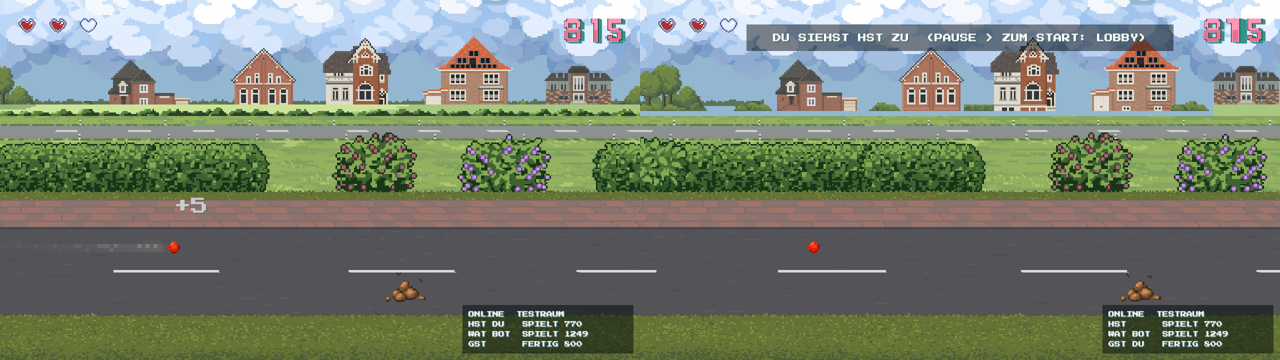
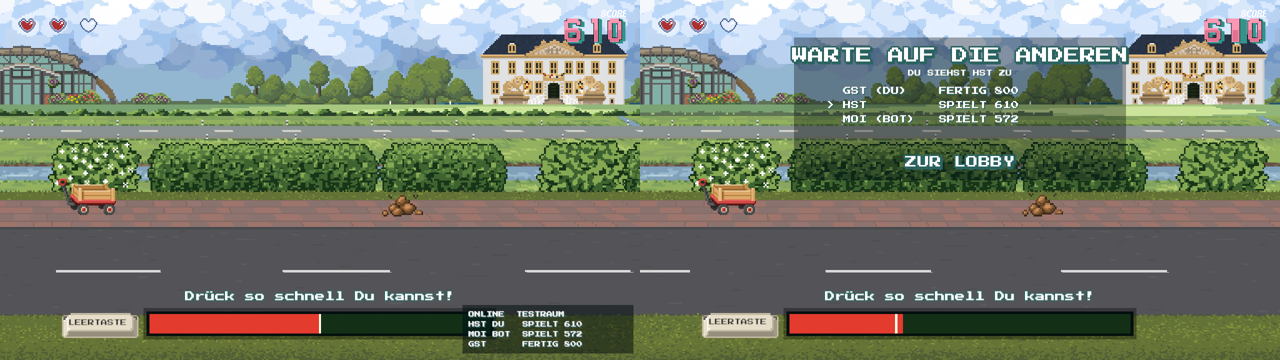
Lobby overlay while watching, SECURITY.md
- While watching, a lobby panel in the style of the pause menu lies over
  the upper half of the mirrored game: who is done with how many points,
  who still plays, whom you watch, and "Zur Lobby" (the game's submit
  input, armed only after 1.5 s and once held buttons were released).
- SECURITY.md: private reporting, scope, and the security model
  (no transport encryption, challenge-response passwords, limits).

Claude-Session: https://claude.ai/code/session_01TwT8QwETfUhfyACGaoyvve

diff --git a/src/OGMultiplayer.Plugin/OnlineHud.cs b/src/OGMultiplayer.Plugin/OnlineHud.cs
@@ -34,6 +34,15 @@ namespace OGMultiplayer.Plugin
         private Text toast;
         private Font font;
 
+        // lobby overlay while watching another player (see MirrorView)
+        private RectTransform watchOverlay;
+        private Text watchTitle;
+        private Text watchSubtitle;
+        private readonly List<Text> watchRows = new List<Text>();
+        private Text watchLeave;
+        private float watchShownAt = -1f;
+        private bool watchArmed;
+
         private static OnlineSession Session => OnlineSession.Instance;
 
         /// <summary>Own round paused and only the pause menu open (not its settings or how-to pages).</summary>
@@ -62,6 +71,93 @@ namespace OGMultiplayer.Plugin
             banner = MakeText(go.transform, "Banner", 18, new Vector2(0f, 300f), new Vector2(880f, 56f));
             toastBackdrop = Backdrop(go.transform, new Vector2(0f, 236f), new Vector2(980f, 48f));
             toast = MakeText(go.transform, "Toast", 14, new Vector2(0f, 236f), new Vector2(960f, 48f));
+            BuildWatchOverlay(go.transform);
+        }
+
+        /// <summary>
+        /// Lobby panel in the style of the pause menu, over the upper half of the watched game:
+        /// who is done with how many points, who still plays, and the way back to the lobby.
+        /// </summary>
+        private void BuildWatchOverlay(Transform parent)
+        {
+            watchOverlay = new GameObject("WatchOverlay", typeof(RectTransform)).GetComponent<RectTransform>();
+            watchOverlay.SetParent(parent, false);
+            watchOverlay.anchoredPosition = new Vector2(0f, 150f);
+            watchOverlay.sizeDelta = new Vector2(700f, 300f);
+            Image backdrop = Backdrop(watchOverlay, Vector2.zero, Vector2.zero);
+            backdrop.color = new Color(PauseMenuTheme.BackdropColor.r, PauseMenuTheme.BackdropColor.g, PauseMenuTheme.BackdropColor.b, 0.6f);
+            backdrop.rectTransform.anchorMin = Vector2.zero;
+            backdrop.rectTransform.anchorMax = Vector2.one;
+            backdrop.rectTransform.offsetMin = Vector2.zero;
+            backdrop.rectTransform.offsetMax = Vector2.zero;
+            watchTitle = PauseMenuTheme.CreateText(watchOverlay, "Title", font, 30, new Vector2(0f, 112f), new Vector2(680f, 48f));
+            watchSubtitle = MakeText(watchOverlay, "Subtitle", 14, new Vector2(0f, 76f), new Vector2(680f, 24f));
+            for (int i = 0; i < Protocol.MaxPlayers; i++)
+            {
+                Text row = MakeText(watchOverlay, "Player" + i, 17, new Vector2(0f, 38f - 30f * i), new Vector2(560f, 28f));
+                row.alignment = TextAnchor.MiddleLeft;
+                watchRows.Add(row);
+            }
+            watchLeave = PauseMenuTheme.CreateText(watchOverlay, "Leave", font, 22, new Vector2(0f, -112f), new Vector2(500f, 44f));
+            PauseMenuTheme.AddSelectionEffect(watchLeave);
+            PauseMenuTheme.ApplySelection(watchLeave, true);
+            watchOverlay.gameObject.SetActive(false);
+        }
+
+        private bool UpdateWatchOverlay()
+        {
+            MirrorView view = MirrorView.Instance;
+            bool show = Session.WaitingForResults && view != null && view.Showing && view.Watching != 0
+                && !PauseManager.IsAnyPaused && !OnlineMenu.Visible;
+            watchOverlay.gameObject.SetActive(show);
+            if (!show)
+            {
+                watchShownAt = -1f;
+                return false;
+            }
+            if (watchShownAt < 0f)
+            {
+                watchShownAt = Time.unscaledTime;
+                watchArmed = false;
+            }
+            LobbyPlayer watched = Session.Lobby.FirstOrDefault(p => p.Id == view.Watching);
+            PauseMenuTheme.SetLabel(watchTitle, "WARTE AUF DIE ANDEREN");
+            SetIfChanged(watchSubtitle, $"DU SIEHST {watched?.Initials ?? "?"} ZU");
+            List<LobbyPlayer> players = Session.Lobby
+                .OrderByDescending(p => p.Status == Protocol.StatusDone ? 1 : 0).ThenByDescending(p => p.Score).ToList();
+            for (int i = 0; i < watchRows.Count; i++)
+            {
+                bool used = i < players.Count;
+                watchRows[i].gameObject.SetActive(used);
+                if (used)
+                {
+                    LobbyPlayer p = players[i];
+                    string who = p.Initials + (p.Id == Session.MyId ? " (DU)" : p.IsBot ? " (BOT)" : string.Empty);
+                    SetIfChanged(watchRows[i], (p.Id == view.Watching ? "> " : "  ") + who.PadRight(10) + "  " + StatusText(p));
+                }
+            }
+            PauseMenuTheme.SetLabel(watchLeave, "ZUR LOBBY");
+            // only the game's own submit input; buttons still held from the round do not count
+            bool held = Input.GetButton("Submit") || ArcadeInput.JumpHeld() || Input.GetKey(KeyCode.KeypadEnter);
+            if (!watchArmed)
+            {
+                watchArmed = !held && Time.unscaledTime - watchShownAt > 1.5f;
+            }
+            else if (ArcadeInput.SubmitDown() || Input.GetKeyDown(KeyCode.KeypadEnter)
+                || (Input.GetMouseButtonDown(0) && RectTransformUtility.RectangleContainsScreenPoint(watchLeave.rectTransform, Input.mousePosition, null)))
+            {
+                watchArmed = false;
+                HotSeatFlowController.AbortToMenu();
+            }
+            return true;
+        }
+
+        private static void SetIfChanged(Text text, string value)
+        {
+            if (text.text != value)
+            {
+                text.text = value;
+            }
         }
 
         private Image Backdrop(Transform parent, Vector2 position, Vector2 size)
@@ -110,7 +206,8 @@ namespace OGMultiplayer.Plugin
             // the game's own results/setup pages already list everyone
             HotSeatFlowController hotSeat = HotSeatFlowController.Instance;
             bool hotSeatPage = hotSeat != null && (hotSeat.Phase == HotSeatPhase.Results || hotSeat.Phase == HotSeatPhase.Setup);
-            bool showPanel = Session.Connected && !menuOpen && !hotSeatPage;
+            bool watching = UpdateWatchOverlay();
+            bool showPanel = Session.Connected && !menuOpen && !hotSeatPage && !watching;
             panel.gameObject.SetActive(showPanel);
             if (showPanel)
             {
@@ -145,11 +242,9 @@ namespace OGMultiplayer.Plugin
             {
                 center = "WARTE AUF DIE ANDEREN SPIELER ...";
             }
-            else if (Session.WaitingForResults && MirrorView.Instance != null && MirrorView.Instance.Showing && MirrorView.Instance.Watching != 0)
+            else if (watching)
             {
-                LobbyPlayer watched = Session.Lobby.FirstOrDefault(p => p.Id == MirrorView.Instance.Watching);
-                center = $"DU SIEHST {watched?.Initials ?? "?"} ZU  (PAUSE > "
-                    + GameLocalization.GetOrDefault("ui.pause.backToStart", "ZUM START").ToUpperInvariant() + ": LOBBY)";
+                // the overlay says it all
             }
             else if (Session.WaitingForResults)
             {

diff --git a/SECURITY.md b/SECURITY.md
@@ -1,0 +1,67 @@
+# Sicherheit
+
+Ostfriesland Games Multiplayer ist ein **inoffizieller** Fan-Mod. Sicherheitslücken im Mod,
+im Server oder in den Installationsskripten bitte hier melden – **nicht** beim Support des
+Spiels. Lücken im Spiel selbst gehören nicht in dieses Repository.
+
+## Unterstützte Versionen
+
+| Version | Unterstützt |
+| --- | --- |
+| `main` und das jeweils neueste Release | ✅ |
+| ältere Releases | ❌ – bitte zuerst aktualisieren |
+
+Server und Plugin sprechen das Protokoll v1; Fixes landen immer auf `main` und im nächsten Release.
+
+## Eine Lücke melden
+
+Bitte **nicht** als öffentliches Issue. Stattdessen:
+
+1. Auf GitHub im Reiter **Security** → **Report a vulnerability** (private Meldung an die
+   Maintainer), oder
+2. falls das nicht geht: ein Issue nur mit der Bitte um einen privaten Kontakt, ohne Details.
+
+Hilfreich sind: betroffene Komponente (Server, Plugin, Installationsskript, NixOS-Modul),
+Version/Commit, Schritte zum Nachstellen und die Auswirkung (z. B. Absturz, Zugriff ohne
+Passwort, Datenabfluss).
+
+Ablauf: Eingangsbestätigung in der Regel innerhalb von 7 Tagen, danach gemeinsame Einschätzung
+und ein Fix auf `main` mit Release. Wer meldet, wird – wenn gewünscht – in den Release-Notes
+genannt. Bitte gib uns Zeit für einen Fix, bevor du Details veröffentlichst (Richtwert 90 Tage).
+
+## Im Rahmen
+
+- **Server** (`src/OGMultiplayer.Server`): Authentifizierung, Raum-Passwörter, Bans,
+  State-Datei, Admin-Konsole/-Socket, Limits (Zeilenlänge, Nachrichten pro Sekunde,
+  Verbindungen pro IP, Raumanzahl), Absturz oder Hänger durch präparierte Nachrichten.
+- **Plugin** (`src/OGMultiplayer.Plugin`): alles, was ein bösartiger Server oder Mitspieler
+  beim Client auslösen kann (z. B. über `DOCTEXT`, `MSG`, `LOBBY`, `VIEW`).
+- **Installationsskripte** (`scripts/`) und das **NixOS-Modul** (`flake.nix`).
+
+## Nicht im Rahmen
+
+- Das Spiel Ostfriesland Games selbst und seine Online-Bestenliste.
+- Schummeln bei Punkten: Punkte meldet jeder Client selbst; der Server prüft sie nicht.
+  Das ist bewusst so (Spaß-Runden unter Bekannten), keine Sicherheitslücke.
+- Angriffe, die Zugriff auf den Rechner des Opfers oder den Server-Host voraussetzen.
+
+## Sicherheitsmodell – was du wissen solltest
+
+- **Keine Transportverschlüsselung.** Das Protokoll ist Klartext-TCP. Initialen, Figuren,
+  Punkte, Raumnamen und der Szenen-Spiegel beim Zuschauen sind für jeden auf dem Netzweg
+  lesbar. Für vertrauliche Runden den Server nur über VPN/WireGuard o. Ä. erreichbar machen.
+- **Passwörter gehen nie im Klartext über das Netz.** Server und Räume nutzen einen
+  Challenge-Response: Nachweis = HMAC-SHA256(PBKDF2-SHA256(Passwort, 30 000 Runden), Nonce).
+  Jede Verbindung bekommt eine neue Nonce, mitgeschnittene Nachweise taugen nicht für eine
+  zweite Anmeldung. Der Server speichert nur den abgeleiteten Schlüssel, der Betreiber sieht
+  Passwörter nie im Klartext. Wer den abgeleiteten Schlüssel (State-Datei) hat, kann sich
+  allerdings anmelden – die State-Datei ist daher nur für den Server-Nutzer lesbar (0600).
+- **Fehlversuche** sperren die Adresse vorübergehend; Bans laufen ab (Standard 30 Tage).
+- **Public-Modus:** Rechtstexte und Zustimmung vor dem Beitritt, Limits pro IP und für Räume,
+  gekürzte IPs im Log.
+- **Zuschauen** überträgt nur den Zustand der Spielszene (Positionen, Sprite-Namen, Texte der
+  Spielszene), kein Bildschirm- oder Kamerabild; Spieler und Server-Betreiber können es
+  abschalten.
+- Das Plugin wird bei der Installation lokal gegen das Spiel gebaut; es werden keine fremden
+  Binärdateien des Spiels verteilt. BepInEx wird mit fest hinterlegter SHA-256-Prüfsumme
+  heruntergeladen.

diff --git a/README.md b/README.md
@@ -121,7 +121,7 @@ löschen.
 7. Nach deinem Lauf wartest du auf die anderen, danach kommt der gemeinsame Ergebnisbildschirm.
    Dort startet der Host per Revanche-Taste (Leertaste) die nächste Runde oder wählt eine andere Disziplin.
    Während du wartest, siehst du im Hintergrund dem besten Spieler zu, der noch spielt
-   (seine Szene läuft bei dir nach). Eine laufende Runde verlässt du über das Pausemenü des
+   (seine Szene läuft bei dir nach), darüber die Lobby mit Punkten und *Zur Lobby*. Eine laufende Runde verlässt du über das Pausemenü des
    Spiels (*Zum Start*). Wer pausiert, hält die anderen nur begrenzt auf: sind alle anderen
    fertig, zählt nach Ablauf der Frist (Standard 60 s) sein letzter Stand.
 
@@ -396,6 +396,11 @@ dotnet test tests/OGMultiplayer.Server.Tests
 Getestet mit der Spielversion auf Unity 6000.4.0f1 (Mono) und BepInEx 5.4.23.4 unter Linux.
 Ändert ein Spiel-Update die gepatchten Methoden, meldet das Plugin beim Start im
 BepInEx-Log, was fehlt.
+
+## Sicherheit
+
+Sicherheitslücken bitte privat melden, nicht als öffentliches Issue – siehe [SECURITY.md](SECURITY.md).
+Dort steht auch, was das Protokoll schützt und was nicht (z. B. keine Transportverschlüsselung).
 
 ## Lizenz
 

diff --git a/Developer.md b/Developer.md
@@ -258,7 +258,10 @@ Eingaben wird der **Szenenzustand** übertragen (`SceneMirror.cs`):
 - Der Zuschauer lädt die Szene neu, lässt ihre Skripte zwei Frames lang aufbauen und friert
   dann ein: Spiel-`MonoBehaviour`s (außer Pausemenü und UI-Bausteine) aus, Coroutinen
   gestoppt, Animatoren aus, Physik aus, Szenen-Audio stumm. Positionen gleiten den
-  gesendeten nach. Wechselt der Beobachtete, wird alles zurückgesetzt und per `VIEWKEY` ein
+  gesendeten nach. Darüber liegt ein Lobby-Overlay im Stil des Pausemenüs (`OnlineHud`):
+  wer fertig ist, wer noch spielt, wem man zusieht, und *Zur Lobby* (Bestätigen-Eingabe
+  des Spiels, erst nach 1,5 s und nachdem gehaltene Tasten losgelassen wurden – sonst
+  würde Tastendrücken vom Ende der eigenen Runde das Overlay sofort auslösen). Wechselt der Beobachtete, wird alles zurückgesetzt und per `VIEWKEY` ein
   vollständiger Stand angefordert.
 - Gestreamt wird nur, solange jemand zuschaut. Opt-out pro Spieler (`VIEWPREF`, Menüzeile
   *Zuschauen*) und pro Server (`--no-spectate`, Admin `spectate off`).
